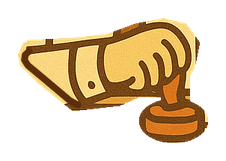
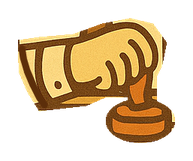
fix(ui): le bras pivote au coude réel, il ne paraît plus coupé une fois levé
Le pivot passe à la jonction entre le haut du bras et l'avant-bras :
le pli du coude reste en place et seul l'avant-bras se lève.

Changed region(s): [[0.0622, 0.0932, 0.9326, 0.9006]]

diff --git a/components/scene/illustration.ts b/components/scene/illustration.ts
@@ -12,7 +12,7 @@ export const BRAS_CONTOUR_GUICHET = require('@/assets/scene/guichet-bras-contour
 const IMAGE = { largeur: 1152, hauteur: 768 };
 
 /** Calque du bras dans le repère de l'image (px), pivot en fraction du calque. */
-const BRAS = { x: 429, y: 383.25, largeur: 226, hauteur: 161, pivotX: 0.1225, pivotY: 0.3163 };
+const BRAS = { x: 462.75, y: 383.25, largeur: 193, hauteur: 161, pivotX: 0.0973, pivotY: 0.2884 };
 
 /** Centre de l'empreinte sur le papier du bureau, à droite du tampon posé (px de l'image). */
 const EMPREINTE = { x: 668, y: 512 };
